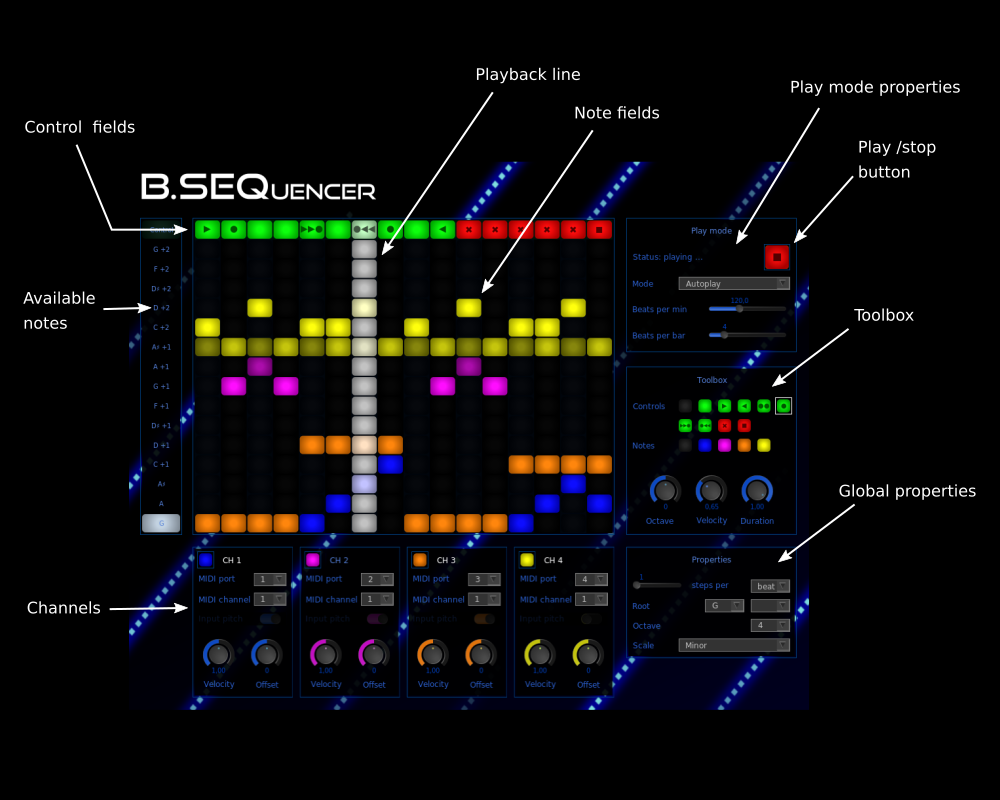
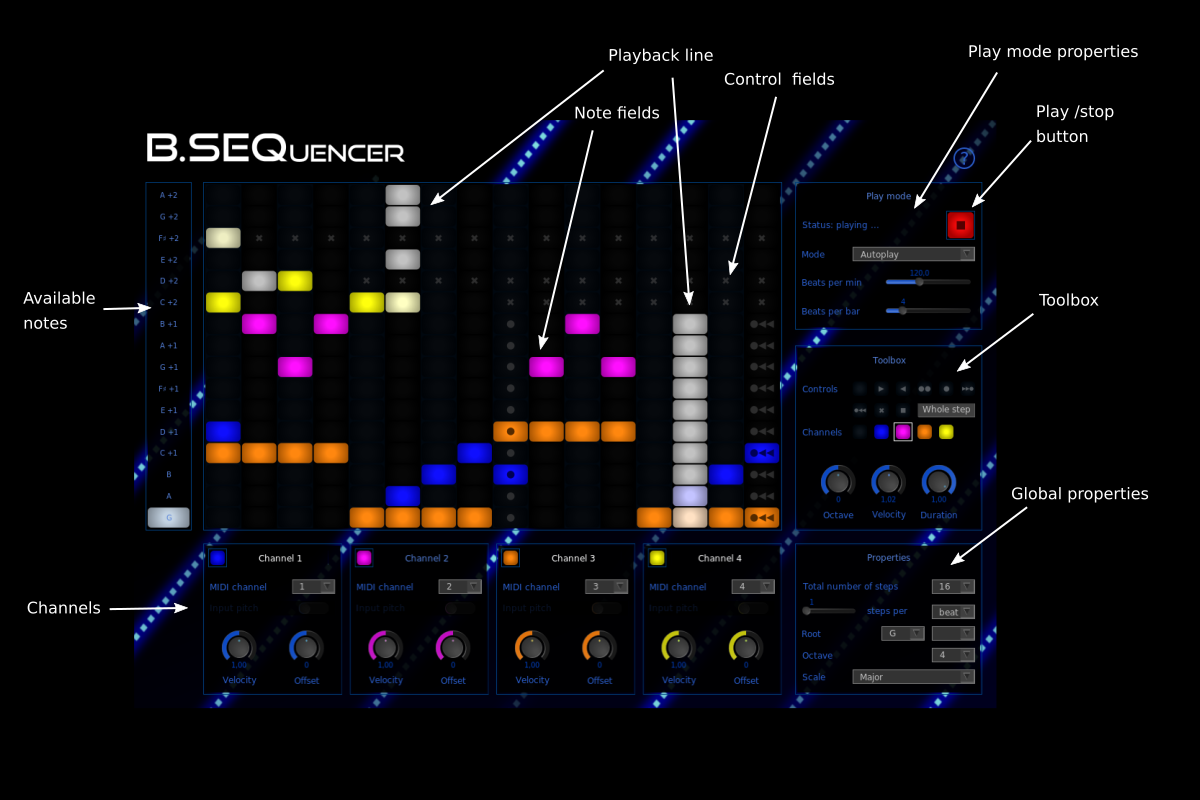
Documentation updated

Changed region(s): [[0.0, 0.0625, 0.992, 0.9062], [0.093, 0.25, 0.124, 0.2812]]

diff --git a/README.md b/README.md
@@ -3,6 +3,9 @@ Repository: BSEQuencer
 
 Description: Multi channel 16x16 MIDI step sequencer LV2 plugin
 
+![screenshot](https://github.com/sjaehn/BSEQuencer/blob/master/docs/screenshot.png "Screenshot from B.SEQuencer")
+
+
 Installation
 ------------
 Build your own binaries in the following three steps.
@@ -19,9 +22,10 @@ from the directory where you downloaded the repository files.
 
 For installation into an alternative directory (e.g., /usr/local/lib/lv2), modify line 2 in the makefile.
 
+
 Running
 -------
-After the installation Carla, (Ardour)** and any other LV2 host should automatically detect B.SEQuencer.
+After the installation Carla, Ardour and any other LV2 host should automatically detect B.SEQuencer.
 
 If jalv is installed, you can also call it
 ```
@@ -29,7 +33,6 @@ jalv.gtk https://www.jahnichen.de/plugins/lv2/BSEQuencer
 ```
 to run it stand-alone and connect it to the JACK system.
 
-** (Not running, yet.)
 
 Key features
 ------------
@@ -40,17 +43,20 @@ Key features
 * Four configurable output channels
 * Output channels connectable with individual MIDI channels
 
+
 Usage
 -----
 see https://github.com/sjaehn/BSEQuencer/wiki/B.SEQuencer
 
+
 TODO
 ----
 * Mouse over widgets (showing values of matrix fields, dials, or sliders; direct keybord keyboard entry of values)
-* Save / restore plugin pads
+* Save / restore plugin pads (Note: **You can't save your work, yet**)
 * Stability (Note: **This plugin is experimental, yet. Not for production!**)
 * Testing
 * Bugfixes
+
 
 See also
 --------
